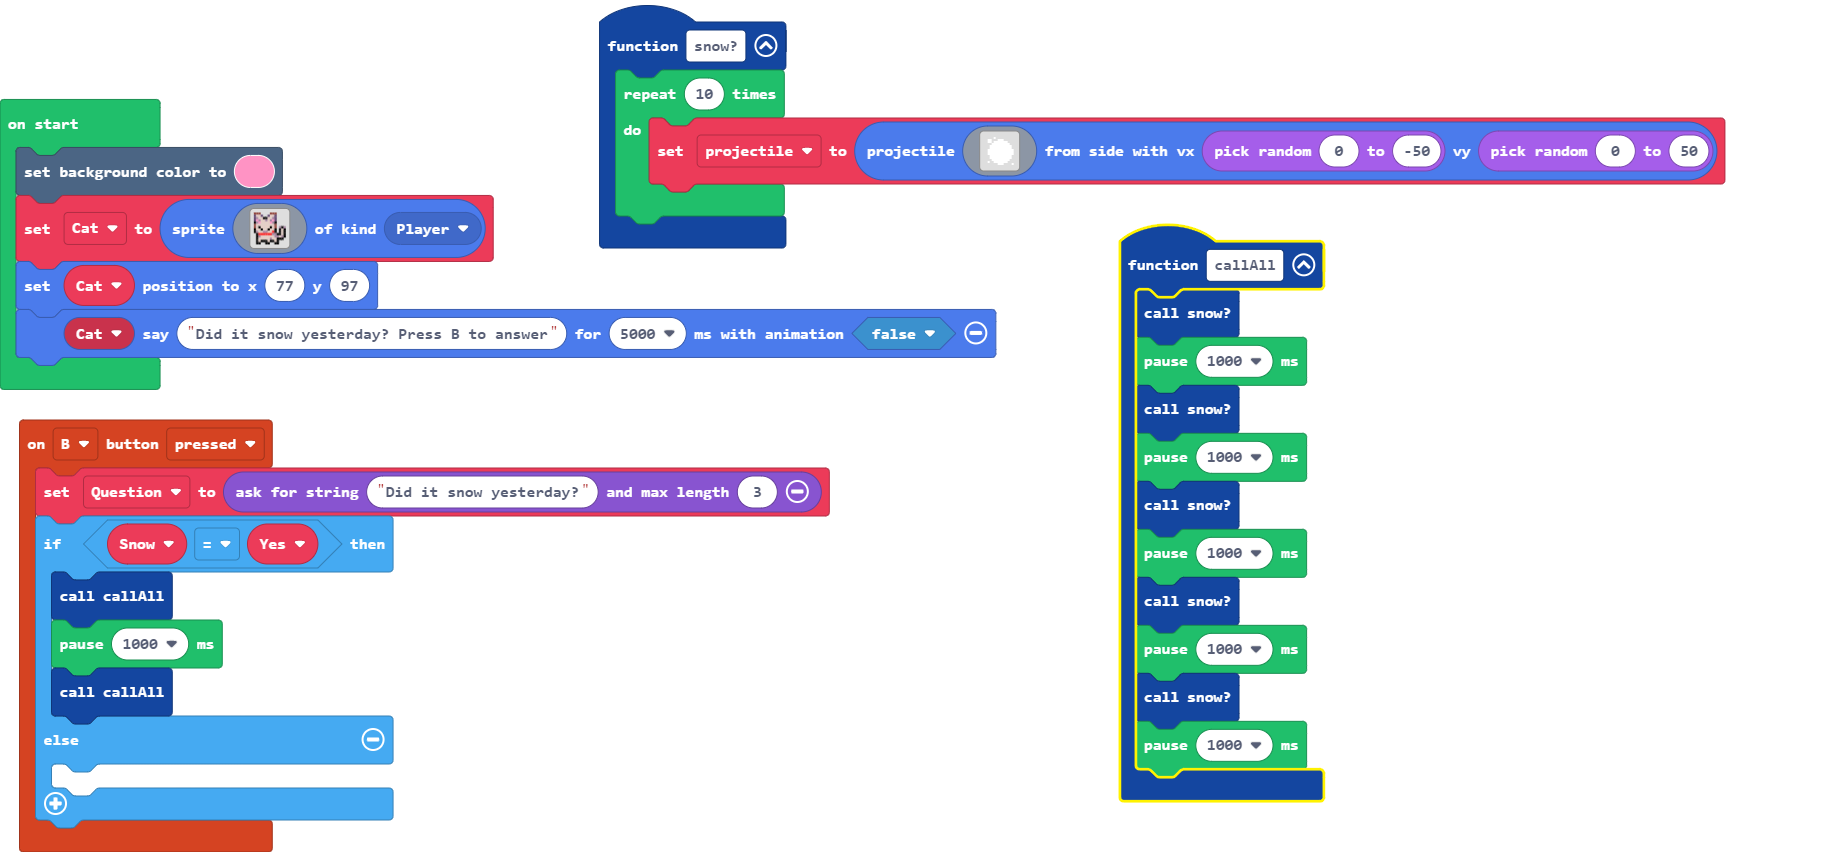
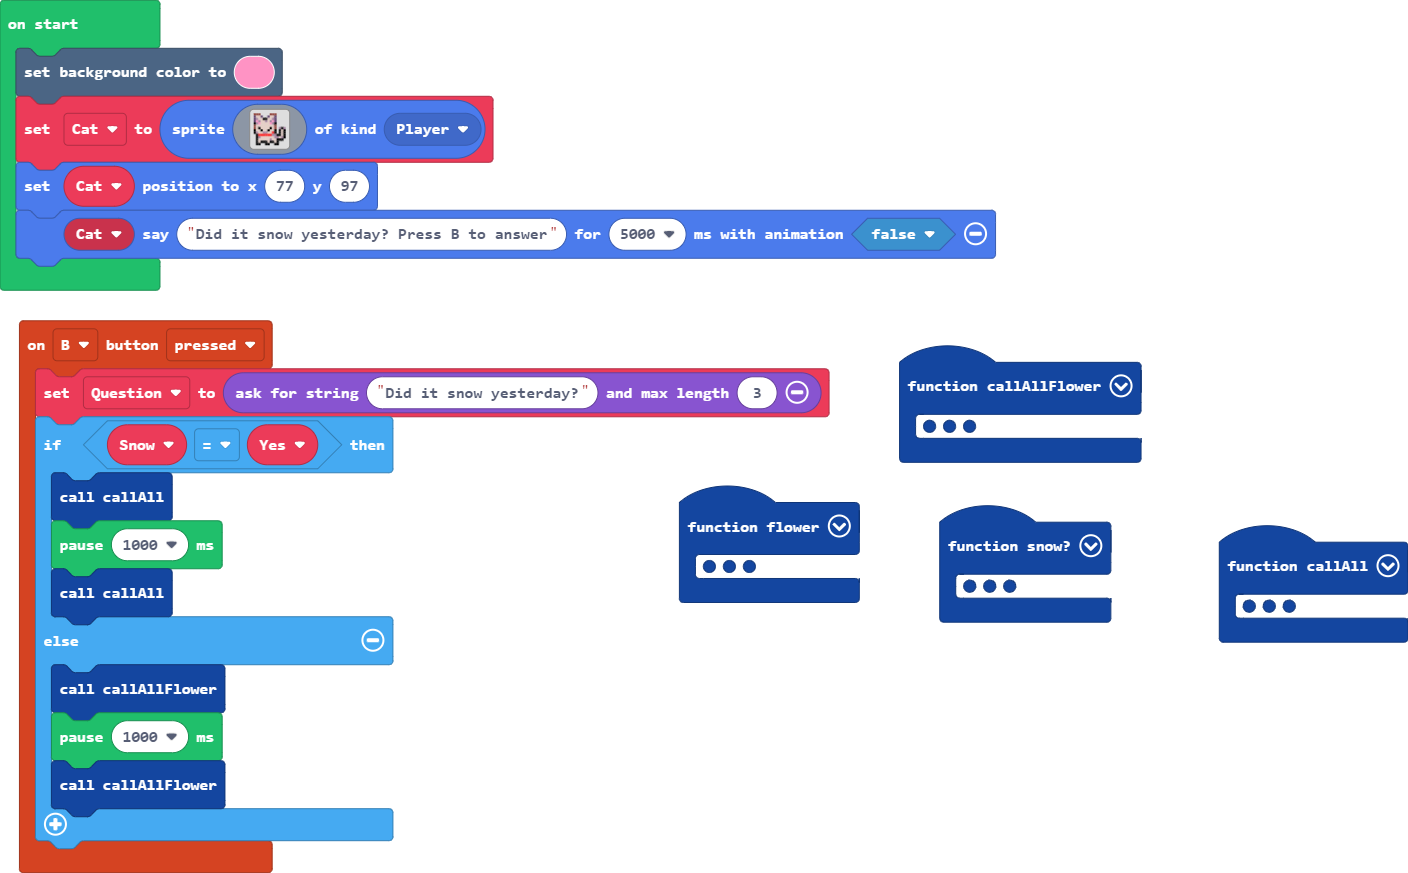
Update main.blocks, main.ts

diff --git a/main.ts b/main.ts
@@ -7,9 +7,23 @@ controller.B.onEvent(ControllerButtonEvent.Pressed, function () {
         pause(1000)
         callAll()
     } else {
-    	
+        callAllFlower()
+        pause(1000)
+        callAllFlower()
     }
 })
+function callAllFlower () {
+    flower()
+    pause(1000)
+    flower()
+    pause(1000)
+    flower()
+    pause(1000)
+    flower()
+    pause(1000)
+    flower()
+    pause(1000)
+}
 function snow () {
     for (let index = 0; index < 10; index++) {
         projectile2 = sprites.createProjectileFromSide(img`
@@ -30,6 +44,11 @@ function snow () {
             . . . . . . . 1 1 1 . . . . 1 . 
             . . . . . . . . . . . . . . . . 
             `, randint(0, -50), randint(0, 50))
+    }
+}
+function flower () {
+    for (let index = 0; index < 10; index++) {
+        projectile2 = sprites.createProjectileFromSide(assets.image`Flower`, randint(0, -50), randint(0, 50))
     }
 }
 function callAll () {
